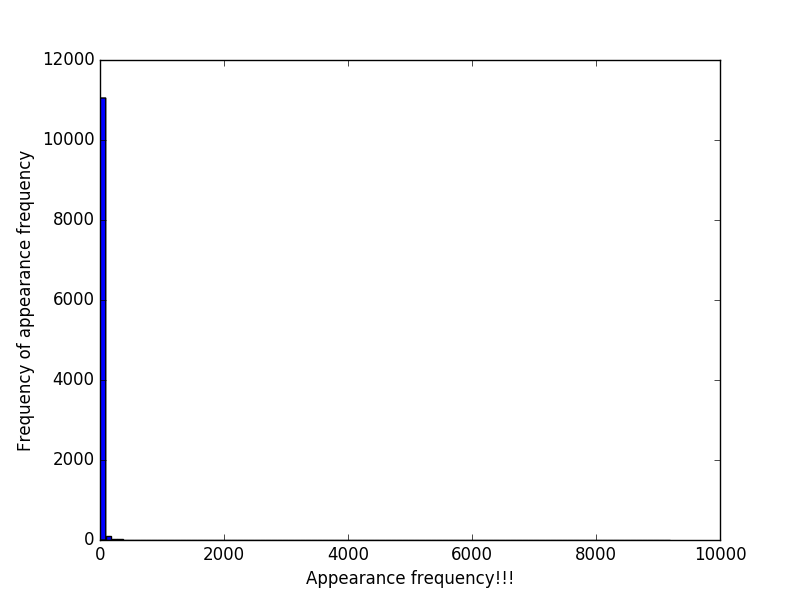
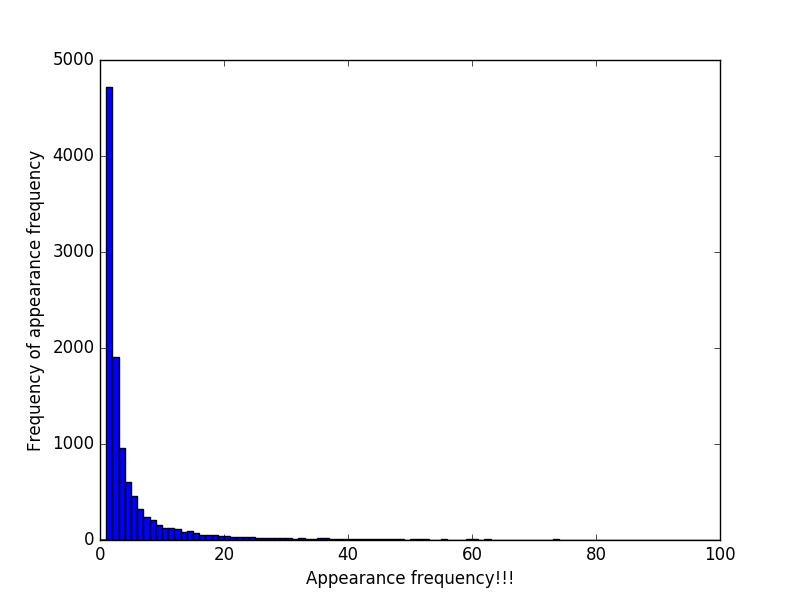
processing

diff --git a/p38.py b/p38.py
@@ -30,7 +30,7 @@ def plot_Histgram(words_counter):
 	plt.ylabel("Frequency of appearance frequency")
 	# plot
 	# plt.hist(freq, bins = 50, normed = True)
-	plt.hist(freq, bins = 100)
+	plt.hist(freq, bins = 100, range=(0,100))
 	# save as png
 	plt.savefig("Histgram_of_Appearance_Frequency.png")
 
